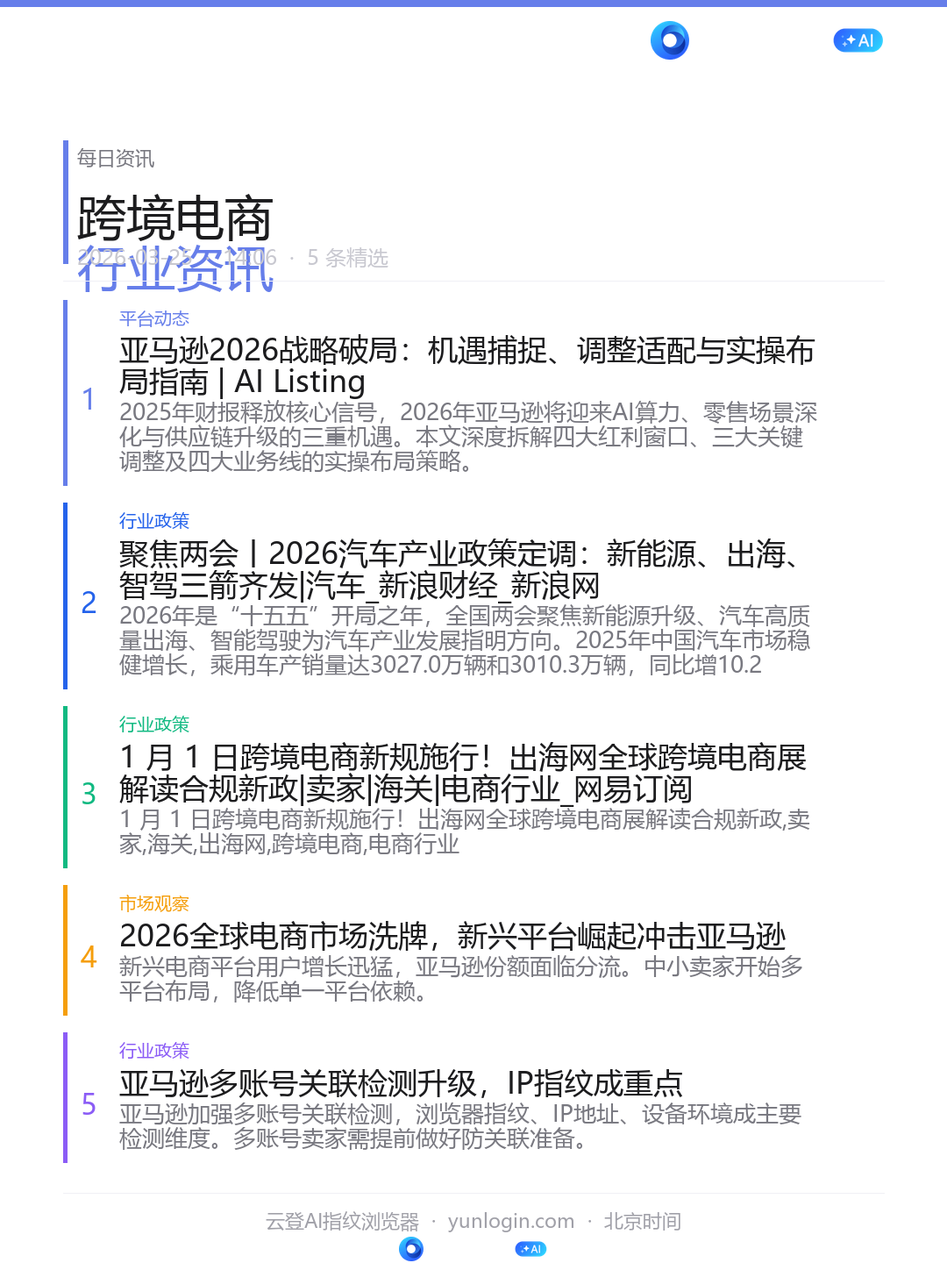
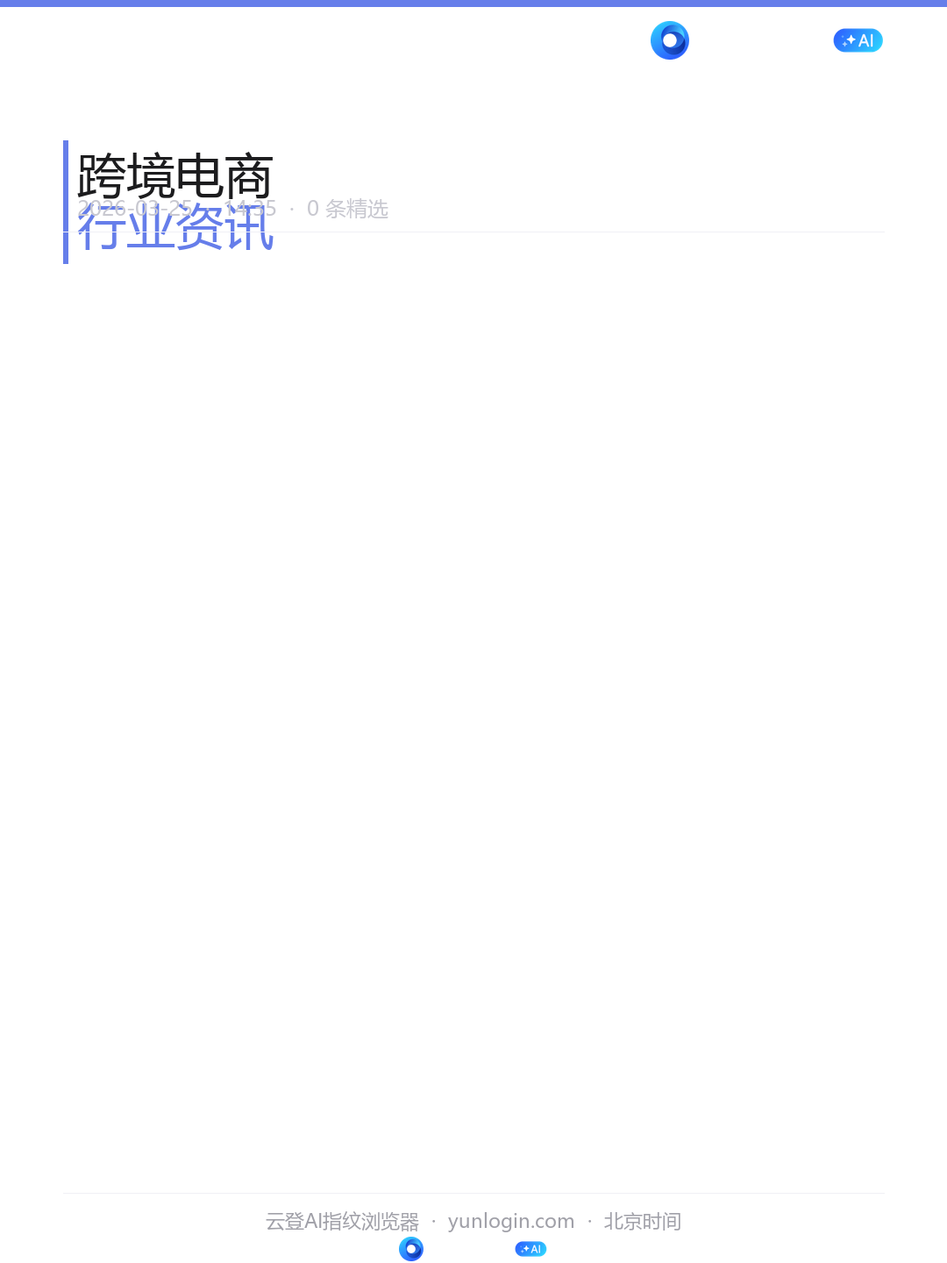
update: 行业简报 2026-03-25 14:35 - v7关键词库

diff --git a/资讯/index.html b/资讯/index.html
@@ -82,7 +82,7 @@ a{color:#667eea;text-decoration:none}
 <div class="hdr">
   <h1>📰 行业资讯</h1>
   <div>
-    <span class="t">🕒 2026-03-25 14:06 · 北京时间</span>
+    <span class="t">🕒 2026-03-25 14:35 · 北京时间</span>
     <a href="../index.html">← 返回首页</a>
   </div>
 </div>
@@ -102,16 +102,16 @@ a{color:#667eea;text-decoration:none}
     <div class="bc">
       <div class="bh">
         <div class="bt">🖼 对外简报 · 朋友圈素材 <span class="badge badge-grn">14:00</span></div>
-        <div class="bm">更新于 2026-03-25 14:06 · 无来源链接</div>
+        <div class="bm">更新于 2026-03-25 14:35 · 无来源链接</div>
       </div>
-      <ul class="nl"><li class="ni"><div class="nb">1</div><div class="nc"><div class="nm"><span class="tag tagB">平台动态</span></div><div class="nt"><a href="https://amzailisting.com/blog/amazon-2026-strategy-trends-guide" target="_blank">亚马逊2026战略破局：机遇捕捉、调整适配与实操布局指南 | AI Listing</a></div><div class="nd">2025年财报释放核心信号，2026年亚马逊将迎来AI算力、零售场景深化与供应链升级的三重机遇。本文深度拆解四大红利窗口、三大关键调整及四大业务线的实操布局策略。</div></div></li><li class="ni"><div class="nb">2</div><div class="nc"><div class="nm"><span class="tag tagR">行业政策</span></div><div class="nt"><a href="https://finance.sina.com.cn/roll/2026-03-10/doc-inhqnmhx6331511.shtml" target="_blank">聚焦两会丨2026汽车产业政策定调：新能源、出海、智驾三箭齐发|汽车_新浪财经_新浪网</a></div><div class="nd">2026年是“十五五”开局之年，全国两会聚焦新能源升级、汽车高质量出海、智能驾驶为汽车产业发展指明方向。2025年中国汽车市场稳健增长，乘用车产销量达3027.0万辆和3010.3万辆，同比增10.2%和9.2%，新能源汽车产销量同比增29%和28.2%。出口方面，乘用车出口同比增21.9%，新能源乘用车出口占比同比增103.7%。智能驾驶领域，2025年L2级及以上智能驾驶渗透率超65%。202</div></div></li><li class="ni"><div class="nb">3</div><div class="nc"><div class="nm"><span class="tag tagR">行业政策</span></div><div class="nt"><a href="https://www.163.com/dy/article/KIO8R7UK05568DP0.html" target="_blank">1 月 1 日跨境电商新规施行！出海网全球跨境电商展解读合规新政|卖家|海关|电商行业_网易订阅</a></div><div class="nd">1 月 1 日跨境电商新规施行！出海网全球跨境电商展解读合规新政,卖家,海关,出海网,跨境电商,电商行业</div></div></li></ul>
+      <ul class="nl"></ul>
     </div>
     <div class="bc">
       <div class="bh">
-        <div class="bt">📊 对内全模块 <span class="badge">5条</span></div>
-        <div class="bm">更新于 2026-03-25 14:06 · 含来源链接</div>
+        <div class="bt">📊 对内全模块 <span class="badge">0条</span></div>
+        <div class="bm">更新于 2026-03-25 14:35 · 含来源链接</div>
       </div>
-      <ul class="nl"><li class="ni"><div class="nb">1</div><div class="nc"><div class="nm"><span class="tag tagB">平台动态</span></div><div class="nt"><a href="https://amzailisting.com/blog/amazon-2026-strategy-trends-guide" target="_blank">亚马逊2026战略破局：机遇捕捉、调整适配与实操布局指南 | AI Listing</a></div><div class="nd">2025年财报释放核心信号，2026年亚马逊将迎来AI算力、零售场景深化与供应链升级的三重机遇。本文深度拆解四大红利窗口、三大关键调整及四大业务线的实操布局策略。</div><div class="ns">&#128214; <a href="https://amzailisting.com/blog/amazon-2026-strategy-trends-guide" target="_blank">amzailisting.com</a> <a class="nlk" href="https://amzailisting.com/blog/amazon-2026-strategy-trends-guide" target="_blank">&#8594;</a></div></div></li><li class="ni"><div class="nb">2</div><div class="nc"><div class="nm"><span class="tag tagR">行业政策</span></div><div class="nt"><a href="https://finance.sina.com.cn/roll/2026-03-10/doc-inhqnmhx6331511.shtml" target="_blank">聚焦两会丨2026汽车产业政策定调：新能源、出海、智驾三箭齐发|汽车_新浪财经_新浪网</a></div><div class="nd">2026年是“十五五”开局之年，全国两会聚焦新能源升级、汽车高质量出海、智能驾驶为汽车产业发展指明方向。2025年中国汽车市场稳健增长，乘用车产销量达3027.0万辆和3010.3万辆，同比增10.2%和9.2%，新能源汽车产销量同比增29%和28.2%。出口方面，乘用车出口同比增21.9%，新能源乘用车出口占比同比增103.7%。智能驾驶领域，2025年L2级及以上智能驾驶渗透率超65%。202</div><div class="ns">&#128214; <a href="https://finance.sina.com.cn/roll/2026-03-10/doc-inhqnmhx6331511.shtml" target="_blank">finance.sina.com.cn</a> <a class="nlk" href="https://finance.sina.com.cn/roll/2026-03-10/doc-inhqnmhx6331511.shtml" target="_blank">&#8594;</a></div></div></li><li class="ni"><div class="nb">3</div><div class="nc"><div class="nm"><span class="tag tagR">行业政策</span></div><div class="nt"><a href="https://www.163.com/dy/article/KIO8R7UK05568DP0.html" target="_blank">1 月 1 日跨境电商新规施行！出海网全球跨境电商展解读合规新政|卖家|海关|电商行业_网易订阅</a></div><div class="nd">1 月 1 日跨境电商新规施行！出海网全球跨境电商展解读合规新政,卖家,海关,出海网,跨境电商,电商行业</div><div class="ns">&#128214; <a href="https://www.163.com/dy/article/KIO8R7UK05568DP0.html" target="_blank">www.163.com</a> <a class="nlk" href="https://www.163.com/dy/article/KIO8R7UK05568DP0.html" target="_blank">&#8594;</a></div></div></li><li class="ni"><div class="nb">4</div><div class="nc"><div class="nm"><span class="tag tagO">市场观察</span></div><div class="nt"><a href="https://www.sohu.com/a/996154720_122656378" target="_blank">2026全球电商市场洗牌，新兴平台崛起冲击亚马逊</a></div><div class="nd">新兴电商平台用户增长迅猛，亚马逊份额面临分流。中小卖家开始多平台布局，降低单一平台依赖。</div><div class="ns">&#128214; <a href="https://www.sohu.com/a/996154720_122656378" target="_blank">搜狐财经</a> <a class="nlk" href="https://www.sohu.com/a/996154720_122656378" target="_blank">&#8594;</a></div></div></li><li class="ni"><div class="nb">5</div><div class="nc"><div class="nm"><span class="tag tagR">行业政策</span></div><div class="nt"><a href="https://www.sohu.com/a/998377667_120987862" target="_blank">亚马逊多账号关联检测升级，IP指纹成重点</a></div><div class="nd">亚马逊加强多账号关联检测，浏览器指纹、IP地址、设备环境成主要检测维度。多账号卖家需提前做好防关联准备。</div><div class="ns">&#128214; <a href="https://www.sohu.com/a/998377667_120987862" target="_blank">搜狐财经</a> <a class="nlk" href="https://www.sohu.com/a/998377667_120987862" target="_blank">&#8594;</a></div></div></li></ul>
+      <ul class="nl"></ul>
     </div>
   </div>
 
@@ -120,7 +120,7 @@ a{color:#667eea;text-decoration:none}
       <div class="bh">
         <div class="bt">🕐 今日历史版本 <span class="badge">2026-03-25</span></div>
       </div>
-      <div id="tlWrap"><table class="tl"><thead><tr><th>时间</th><th>条数</th><th>首条</th><th>标签</th><th></th></tr></thead><tbody><tr><td class="tc">14:00</td><td class="ti">8条</td><td class="ti">亚马逊2026战略破局：机遇捕捉、调整适配与实操布局指南 | AI Li...</td><td><span class="mt">平台动态</span> <span class="mt">行业政策</span> <span class="mt">行业政策</span> <span class="mt">平台动态</span></td><td><button class="bv bcur" onclick="showSnap('14')">当前</button></td></tr><tr><td class="tc">13:00</td><td class="ti">8条</td><td class="ti">盘点2025年中国跨境电商重要政策：对2026跨境出海的影响 - TMO...</td><td><span class="mt">行业政策</span> <span class="mt">行业政策</span> <span class="mt">市场观察</span> <span class="mt">行业政策</span></td><td><button class="bv " onclick="showSnap('13')">查看</button></td></tr><tr><td class="tc">12:00</td><td class="ti">8条</td><td class="ti">2026美国电商如何赢得新增长？答案就藏在这里 - ingstart-全...</td><td><span class="mt">行业政策</span> <span class="mt">市场观察</span> <span class="mt">行业政策</span> <span class="mt">行业政策</span></td><td><button class="bv " onclick="showSnap('12')">查看</button></td></tr></tbody></table></div>
+      <div id="tlWrap"><table class="tl"><thead><tr><th>时间</th><th>条数</th><th>首条</th><th>标签</th><th></th></tr></thead><tbody><tr><td class="tc">14:00</td><td class="ti">0条</td><td class="ti">无内容</td><td></td><td><button class="bv bcur" onclick="showSnap('14')">当前</button></td></tr></tbody></table></div>
     </div>
   </div>
 </div>
@@ -152,7 +152,7 @@ a{color:#667eea;text-decoration:none}
   </div>
 </div>
 
-<script type="application/json" id="sd">{"2026-03-25": {"12": {"articles": [{"tag": "行业政策", "title": "2026美国电商如何赢得新增长？答案就藏在这里 - ingstart-全球公司成立与合规", "desc": "2026美国电商如何赢得新增长？答案就藏在这里 随着TikTok Shop在美国市场持续爆发，“兴趣电商+品牌", "date": "2026-03-25", "hour": "12", "url": "https://www.ingstart.com/blog/45558.html", "source": "www.ingstart.com", "is_new": true, "for_outer": true, "score": 5}, {"tag": "市场观察", "title": "2026全球电商市场洗牌，新兴平台崛起冲击亚马逊", "desc": "新兴电商平台用户增长迅猛，亚马逊份额面临分流。中小卖家开始多平台布局，降低单一平台依赖。", "url": "https://www.sohu.com/a/996154720_122656378", "source": "搜狐财经", "for_outer": true, "is_new": false, "hour": "12", "score": 5}, {"tag": "行业政策", "title": "亚马逊多账号关联检测升级，IP指纹成重点", "desc": "亚马逊加强多账号关联检测，浏览器指纹、IP地址、设备环境成主要检测维度。多账号卖家需提前做好防关联准备。", "url": "https://www.sohu.com/a/998377667_120987862", "source": "搜狐财经", "for_outer": true, "is_new": false, "hour": "12", "score": 2}, {"tag": "行业政策", "title": "2026美国电商如何赢得新增长？答案就藏在这里 - ingstart-全球公司成立与合规", "desc": "2026美国电商如何赢得新增长？答案就藏在这里 随着TikTok Shop在美国市场持续爆发，“兴趣电商+品牌", "date": "2026-03-25", "hour": "12", "url": "https://www.ingstart.com/blog/45558.html", "source": "www.ingstart.com", "is_new": true, "for_outer": true, "score": 5}, {"tag": "运营技巧", "title": "404,您访问的页面已经不存在!", "desc": "", "date": "2026-03-25", "hour": "12", "url": "https://www.sohu.com/a/998487508_122647688", "source": "www.sohu.com", "is_new": true, "for_outer": false, "score": 0}, {"tag": "市场观察", "title": "2026全球电商市场洗牌，新兴平台崛起冲击亚马逊", "desc": "新兴电商平台用户增长迅猛，亚马逊份额面临分流。中小卖家开始多平台布局，降低单一平台依赖。", "url": "https://www.sohu.com/a/996154720_122656378", "source": "搜狐财经", "for_outer": true, "is_new": false, "hour": "12", "score": 5}, {"tag": "行业政策", "title": "亚马逊多账号关联检测升级，IP指纹成重点", "desc": "亚马逊加强多账号关联检测，浏览器指纹、IP地址、设备环境成主要检测维度。多账号卖家需提前做好防关联准备。", "url": "https://www.sohu.com/a/998377667_120987862", "source": "搜狐财经", "for_outer": true, "is_new": false, "hour": "12", "score": 2}, {"tag": "行业政策", "title": "美国、土耳其相继加征关税，跨境卖家成本压力骤增", "desc": "美国、土耳其对多国商品加征关税，出口电商面临新一轮成本压力，需提前布局多平台分散风险。", "url": "https://www.jiemian.com/article/14129901.html", "source": "界面新闻", "for_outer": true, "is_new": false, "hour": "12", "score": 2}], "updated": "2026-03-25 12:40"}, "13": {"articles": [{"tag": "行业政策", "title": "盘点2025年中国跨境电商重要政策：对2026跨境出海的影响 - TMO Group", "desc": "全面梳理 2025 年中国跨境电商重要政策，涵盖海外仓、通关便利、RCEP 协定与数据合规趋势，解读其对 2026 年跨境出海与品牌全球化布局的实际影响，助力企业制定可持续出海战略！", "date": "2026-03-25", "hour": "13", "url": "https://www.tmogroup.com.cn/insights/key-cross-border-ecommerce-policy-china/", "source": "www.tmogroup.com.cn", "is_new": true, "for_outer": true, "score": 5}, {"tag": "行业政策", "title": "2026年外贸业务跨境支付：深陷监管桎梏与合规困境-风险预警-外贸资讯-催全球", "desc": "圣彼得堡作为俄罗斯西北部最大的外贸枢纽，是最早经历国际结算体系结构性巨变的地区之一。", "date": "2026-03-25", "hour": "13", "url": "https://www.cuiqq.com/newsdetail/15781", "source": "www.cuiqq.com", "is_new": true, "for_outer": true, "score": 5}, {"tag": "市场观察", "title": "2026全球电商市场洗牌，新兴平台崛起冲击亚马逊", "desc": "新兴电商平台用户增长迅猛，亚马逊份额面临分流。中小卖家开始多平台布局，降低单一平台依赖。", "url": "https://www.sohu.com/a/996154720_122656378", "source": "搜狐财经", "for_outer": true, "is_new": false, "hour": "13", "score": 5}, {"tag": "行业政策", "title": "盘点2025年中国跨境电商重要政策：对2026跨境出海的影响 - TMO Group", "desc": "全面梳理 2025 年中国跨境电商重要政策，涵盖海外仓、通关便利、RCEP 协定与数据合规趋势，解读其对 2026 年跨境出海与品牌全球化布局的实际影响，助力企业制定可持续出海战略！", "date": "2026-03-25", "hour": "13", "url": "https://www.tmogroup.com.cn/insights/key-cross-border-ecommerce-policy-china/", "source": "www.tmogroup.com.cn", "is_new": true, "for_outer": true, "score": 5}, {"tag": "行业政策", "title": "2026年外贸业务跨境支付：深陷监管桎梏与合规困境-风险预警-外贸资讯-催全球", "desc": "圣彼得堡作为俄罗斯西北部最大的外贸枢纽，是最早经历国际结算体系结构性巨变的地区之一。", "date": "2026-03-25", "hour": "13", "url": "https://www.cuiqq.com/newsdetail/15781", "source": "www.cuiqq.com", "is_new": true, "for_outer": true, "score": 5}, {"tag": "市场观察", "title": "2026全球电商市场洗牌，新兴平台崛起冲击亚马逊", "desc": "新兴电商平台用户增长迅猛，亚马逊份额面临分流。中小卖家开始多平台布局，降低单一平台依赖。", "url": "https://www.sohu.com/a/996154720_122656378", "source": "搜狐财经", "for_outer": true, "is_new": false, "hour": "13", "score": 5}, {"tag": "行业政策", "title": "亚马逊多账号关联检测升级，IP指纹成重点", "desc": "亚马逊加强多账号关联检测，浏览器指纹、IP地址、设备环境成主要检测维度。多账号卖家需提前做好防关联准备。", "url": "https://www.sohu.com/a/998377667_120987862", "source": "搜狐财经", "for_outer": true, "is_new": false, "hour": "13", "score": 2}, {"tag": "行业政策", "title": "美国、土耳其相继加征关税，跨境卖家成本压力骤增", "desc": "美国、土耳其对多国商品加征关税，出口电商面临新一轮成本压力，需提前布局多平台分散风险。", "url": "https://www.jiemian.com/article/14129901.html", "source": "界面新闻", "for_outer": true, "is_new": false, "hour": "13", "score": 2}], "updated": "2026-03-25 13:58"}, "14": {"articles": [{"tag": "平台动态", "title": "亚马逊2026战略破局：机遇捕捉、调整适配与实操布局指南 | AI Listing", "desc": "2025年财报释放核心信号，2026年亚马逊将迎来AI算力、零售场景深化与供应链升级的三重机遇。本文深度拆解四大红利窗口、三大关键调整及四大业务线的实操布局策略。", "date": "2026-03-25", "hour": "14", "url": "https://amzailisting.com/blog/amazon-2026-strategy-trends-guide", "source": "amzailisting.com", "is_new": true, "for_outer": true, "score": 5}, {"tag": "行业政策", "title": "聚焦两会丨2026汽车产业政策定调：新能源、出海、智驾三箭齐发|汽车_新浪财经_新浪网", "desc": "2026年是“十五五”开局之年，全国两会聚焦新能源升级、汽车高质量出海、智能驾驶为汽车产业发展指明方向。2025年中国汽车市场稳健增长，乘用车产销量达3027.0万辆和3010.3万辆，同比增10.2%和9.2%，新能源汽车产销量同比增29%和28.2%。出口方面，乘用车出口同比增21.9%，新能源乘用车出口占比同比增103.7%。智能驾驶领域，2025年L2级及以上智能驾驶渗透率超65%。202", "date": "2026-03-25", "hour": "14", "url": "https://finance.sina.com.cn/roll/2026-03-10/doc-inhqnmhx6331511.shtml", "source": "finance.sina.com.cn", "is_new": true, "for_outer": true, "score": 5}, {"tag": "行业政策", "title": "1 月 1 日跨境电商新规施行！出海网全球跨境电商展解读合规新政|卖家|海关|电商行业_网易订阅", "desc": "1 月 1 日跨境电商新规施行！出海网全球跨境电商展解读合规新政,卖家,海关,出海网,跨境电商,电商行业", "date": "2026-03-25", "hour": "14", "url": "https://www.163.com/dy/article/KIO8R7UK05568DP0.html", "source": "www.163.com", "is_new": true, "for_outer": true, "score": 0}, {"tag": "平台动态", "title": "亚马逊2026战略破局：机遇捕捉、调整适配与实操布局指南 | AI Listing", "desc": "2025年财报释放核心信号，2026年亚马逊将迎来AI算力、零售场景深化与供应链升级的三重机遇。本文深度拆解四大红利窗口、三大关键调整及四大业务线的实操布局策略。", "date": "2026-03-25", "hour": "14", "url": "https://amzailisting.com/blog/amazon-2026-strategy-trends-guide", "source": "amzailisting.com", "is_new": true, "for_outer": true, "score": 5}, {"tag": "行业政策", "title": "聚焦两会丨2026汽车产业政策定调：新能源、出海、智驾三箭齐发|汽车_新浪财经_新浪网", "desc": "2026年是“十五五”开局之年，全国两会聚焦新能源升级、汽车高质量出海、智能驾驶为汽车产业发展指明方向。2025年中国汽车市场稳健增长，乘用车产销量达3027.0万辆和3010.3万辆，同比增10.2%和9.2%，新能源汽车产销量同比增29%和28.2%。出口方面，乘用车出口同比增21.9%，新能源乘用车出口占比同比增103.7%。智能驾驶领域，2025年L2级及以上智能驾驶渗透率超65%。202", "date": "2026-03-25", "hour": "14", "url": "https://finance.sina.com.cn/roll/2026-03-10/doc-inhqnmhx6331511.shtml", "source": "finance.sina.com.cn", "is_new": true, "for_outer": true, "score": 5}, {"tag": "行业政策", "title": "1 月 1 日跨境电商新规施行！出海网全球跨境电商展解读合规新政|卖家|海关|电商行业_网易订阅", "desc": "1 月 1 日跨境电商新规施行！出海网全球跨境电商展解读合规新政,卖家,海关,出海网,跨境电商,电商行业", "date": "2026-03-25", "hour": "14", "url": "https://www.163.com/dy/article/KIO8R7UK05568DP0.html", "source": "www.163.com", "is_new": true, "for_outer": true, "score": 0}, {"tag": "市场观察", "title": "2026全球电商市场洗牌，新兴平台崛起冲击亚马逊", "desc": "新兴电商平台用户增长迅猛，亚马逊份额面临分流。中小卖家开始多平台布局，降低单一平台依赖。", "url": "https://www.sohu.com/a/996154720_122656378", "source": "搜狐财经", "for_outer": true, "is_new": false, "hour": "14", "score": 5}, {"tag": "行业政策", "title": "亚马逊多账号关联检测升级，IP指纹成重点", "desc": "亚马逊加强多账号关联检测，浏览器指纹、IP地址、设备环境成主要检测维度。多账号卖家需提前做好防关联准备。", "url": "https://www.sohu.com/a/998377667_120987862", "source": "搜狐财经", "for_outer": true, "is_new": false, "hour": "14", "score": 2}], "updated": "2026-03-25 14:06"}}}</script>
+<script type="application/json" id="sd">{"2026-03-25": {"14": {"articles": [], "updated": "2026-03-25 14:35"}}}</script>
 <script>
 var SD=JSON.parse(document.getElementById("sd").textContent||"{}");
 

diff --git a/资讯/历史.html b/资讯/历史.html
@@ -85,7 +85,7 @@ a{color:#667eea;text-decoration:none}
       <div class="bt">📁 全部历史记录</div>
       <div class="bm">按日期分组，共保留7天</div>
     </div>
-    <div id="dgWrap"><div class="dg"><div class="dl">2026-03-25 周二</div><table class="tl"><thead><tr><th>时间</th><th>条数</th><th>首条</th><th>标签</th><th></th></tr></thead><tbody><tr><td class="tc">14:00</td><td class="ti">8条</td><td class="ti">亚马逊2026战略破局：机遇捕捉、调整适配与实操布局指南 | A...</td><td><span class="mt">平台动态</span> <span class="mt">行业政策</span> <span class="mt">行业政策</span> <span class="mt">平台动态</span></td><td><button class="bv" onclick="loadSnap('2026-03-25','14')">查看</button></td></tr><tr><td class="tc">13:00</td><td class="ti">8条</td><td class="ti">盘点2025年中国跨境电商重要政策：对2026跨境出海的影响 -...</td><td><span class="mt">行业政策</span> <span class="mt">行业政策</span> <span class="mt">市场观察</span> <span class="mt">行业政策</span></td><td><button class="bv" onclick="loadSnap('2026-03-25','13')">查看</button></td></tr><tr><td class="tc">12:00</td><td class="ti">8条</td><td class="ti">2026美国电商如何赢得新增长？答案就藏在这里 - ingsta...</td><td><span class="mt">行业政策</span> <span class="mt">市场观察</span> <span class="mt">行业政策</span> <span class="mt">行业政策</span></td><td><button class="bv" onclick="loadSnap('2026-03-25','12')">查看</button></td></tr></tbody></table></div></div>
+    <div id="dgWrap"><div class="dg"><div class="dl">2026-03-25 周二</div><table class="tl"><thead><tr><th>时间</th><th>条数</th><th>首条</th><th>标签</th><th></th></tr></thead><tbody><tr><td class="tc">14:00</td><td class="ti">0条</td><td class="ti">无内容</td><td></td><td><button class="bv" onclick="loadSnap('2026-03-25','14')">查看</button></td></tr></tbody></table></div></div>
   </div>
 </div>
 
@@ -116,7 +116,7 @@ a{color:#667eea;text-decoration:none}
   </div>
 </div>
 
-<script type="application/json" id="sd">{"2026-03-25": {"12": {"articles": [{"tag": "行业政策", "title": "2026美国电商如何赢得新增长？答案就藏在这里 - ingstart-全球公司成立与合规", "desc": "2026美国电商如何赢得新增长？答案就藏在这里 随着TikTok Shop在美国市场持续爆发，“兴趣电商+品牌", "date": "2026-03-25", "hour": "12", "url": "https://www.ingstart.com/blog/45558.html", "source": "www.ingstart.com", "is_new": true, "for_outer": true, "score": 5}, {"tag": "市场观察", "title": "2026全球电商市场洗牌，新兴平台崛起冲击亚马逊", "desc": "新兴电商平台用户增长迅猛，亚马逊份额面临分流。中小卖家开始多平台布局，降低单一平台依赖。", "url": "https://www.sohu.com/a/996154720_122656378", "source": "搜狐财经", "for_outer": true, "is_new": false, "hour": "12", "score": 5}, {"tag": "行业政策", "title": "亚马逊多账号关联检测升级，IP指纹成重点", "desc": "亚马逊加强多账号关联检测，浏览器指纹、IP地址、设备环境成主要检测维度。多账号卖家需提前做好防关联准备。", "url": "https://www.sohu.com/a/998377667_120987862", "source": "搜狐财经", "for_outer": true, "is_new": false, "hour": "12", "score": 2}, {"tag": "行业政策", "title": "2026美国电商如何赢得新增长？答案就藏在这里 - ingstart-全球公司成立与合规", "desc": "2026美国电商如何赢得新增长？答案就藏在这里 随着TikTok Shop在美国市场持续爆发，“兴趣电商+品牌", "date": "2026-03-25", "hour": "12", "url": "https://www.ingstart.com/blog/45558.html", "source": "www.ingstart.com", "is_new": true, "for_outer": true, "score": 5}, {"tag": "运营技巧", "title": "404,您访问的页面已经不存在!", "desc": "", "date": "2026-03-25", "hour": "12", "url": "https://www.sohu.com/a/998487508_122647688", "source": "www.sohu.com", "is_new": true, "for_outer": false, "score": 0}, {"tag": "市场观察", "title": "2026全球电商市场洗牌，新兴平台崛起冲击亚马逊", "desc": "新兴电商平台用户增长迅猛，亚马逊份额面临分流。中小卖家开始多平台布局，降低单一平台依赖。", "url": "https://www.sohu.com/a/996154720_122656378", "source": "搜狐财经", "for_outer": true, "is_new": false, "hour": "12", "score": 5}, {"tag": "行业政策", "title": "亚马逊多账号关联检测升级，IP指纹成重点", "desc": "亚马逊加强多账号关联检测，浏览器指纹、IP地址、设备环境成主要检测维度。多账号卖家需提前做好防关联准备。", "url": "https://www.sohu.com/a/998377667_120987862", "source": "搜狐财经", "for_outer": true, "is_new": false, "hour": "12", "score": 2}, {"tag": "行业政策", "title": "美国、土耳其相继加征关税，跨境卖家成本压力骤增", "desc": "美国、土耳其对多国商品加征关税，出口电商面临新一轮成本压力，需提前布局多平台分散风险。", "url": "https://www.jiemian.com/article/14129901.html", "source": "界面新闻", "for_outer": true, "is_new": false, "hour": "12", "score": 2}], "updated": "2026-03-25 12:40"}, "13": {"articles": [{"tag": "行业政策", "title": "盘点2025年中国跨境电商重要政策：对2026跨境出海的影响 - TMO Group", "desc": "全面梳理 2025 年中国跨境电商重要政策，涵盖海外仓、通关便利、RCEP 协定与数据合规趋势，解读其对 2026 年跨境出海与品牌全球化布局的实际影响，助力企业制定可持续出海战略！", "date": "2026-03-25", "hour": "13", "url": "https://www.tmogroup.com.cn/insights/key-cross-border-ecommerce-policy-china/", "source": "www.tmogroup.com.cn", "is_new": true, "for_outer": true, "score": 5}, {"tag": "行业政策", "title": "2026年外贸业务跨境支付：深陷监管桎梏与合规困境-风险预警-外贸资讯-催全球", "desc": "圣彼得堡作为俄罗斯西北部最大的外贸枢纽，是最早经历国际结算体系结构性巨变的地区之一。", "date": "2026-03-25", "hour": "13", "url": "https://www.cuiqq.com/newsdetail/15781", "source": "www.cuiqq.com", "is_new": true, "for_outer": true, "score": 5}, {"tag": "市场观察", "title": "2026全球电商市场洗牌，新兴平台崛起冲击亚马逊", "desc": "新兴电商平台用户增长迅猛，亚马逊份额面临分流。中小卖家开始多平台布局，降低单一平台依赖。", "url": "https://www.sohu.com/a/996154720_122656378", "source": "搜狐财经", "for_outer": true, "is_new": false, "hour": "13", "score": 5}, {"tag": "行业政策", "title": "盘点2025年中国跨境电商重要政策：对2026跨境出海的影响 - TMO Group", "desc": "全面梳理 2025 年中国跨境电商重要政策，涵盖海外仓、通关便利、RCEP 协定与数据合规趋势，解读其对 2026 年跨境出海与品牌全球化布局的实际影响，助力企业制定可持续出海战略！", "date": "2026-03-25", "hour": "13", "url": "https://www.tmogroup.com.cn/insights/key-cross-border-ecommerce-policy-china/", "source": "www.tmogroup.com.cn", "is_new": true, "for_outer": true, "score": 5}, {"tag": "行业政策", "title": "2026年外贸业务跨境支付：深陷监管桎梏与合规困境-风险预警-外贸资讯-催全球", "desc": "圣彼得堡作为俄罗斯西北部最大的外贸枢纽，是最早经历国际结算体系结构性巨变的地区之一。", "date": "2026-03-25", "hour": "13", "url": "https://www.cuiqq.com/newsdetail/15781", "source": "www.cuiqq.com", "is_new": true, "for_outer": true, "score": 5}, {"tag": "市场观察", "title": "2026全球电商市场洗牌，新兴平台崛起冲击亚马逊", "desc": "新兴电商平台用户增长迅猛，亚马逊份额面临分流。中小卖家开始多平台布局，降低单一平台依赖。", "url": "https://www.sohu.com/a/996154720_122656378", "source": "搜狐财经", "for_outer": true, "is_new": false, "hour": "13", "score": 5}, {"tag": "行业政策", "title": "亚马逊多账号关联检测升级，IP指纹成重点", "desc": "亚马逊加强多账号关联检测，浏览器指纹、IP地址、设备环境成主要检测维度。多账号卖家需提前做好防关联准备。", "url": "https://www.sohu.com/a/998377667_120987862", "source": "搜狐财经", "for_outer": true, "is_new": false, "hour": "13", "score": 2}, {"tag": "行业政策", "title": "美国、土耳其相继加征关税，跨境卖家成本压力骤增", "desc": "美国、土耳其对多国商品加征关税，出口电商面临新一轮成本压力，需提前布局多平台分散风险。", "url": "https://www.jiemian.com/article/14129901.html", "source": "界面新闻", "for_outer": true, "is_new": false, "hour": "13", "score": 2}], "updated": "2026-03-25 13:58"}, "14": {"articles": [{"tag": "平台动态", "title": "亚马逊2026战略破局：机遇捕捉、调整适配与实操布局指南 | AI Listing", "desc": "2025年财报释放核心信号，2026年亚马逊将迎来AI算力、零售场景深化与供应链升级的三重机遇。本文深度拆解四大红利窗口、三大关键调整及四大业务线的实操布局策略。", "date": "2026-03-25", "hour": "14", "url": "https://amzailisting.com/blog/amazon-2026-strategy-trends-guide", "source": "amzailisting.com", "is_new": true, "for_outer": true, "score": 5}, {"tag": "行业政策", "title": "聚焦两会丨2026汽车产业政策定调：新能源、出海、智驾三箭齐发|汽车_新浪财经_新浪网", "desc": "2026年是“十五五”开局之年，全国两会聚焦新能源升级、汽车高质量出海、智能驾驶为汽车产业发展指明方向。2025年中国汽车市场稳健增长，乘用车产销量达3027.0万辆和3010.3万辆，同比增10.2%和9.2%，新能源汽车产销量同比增29%和28.2%。出口方面，乘用车出口同比增21.9%，新能源乘用车出口占比同比增103.7%。智能驾驶领域，2025年L2级及以上智能驾驶渗透率超65%。202", "date": "2026-03-25", "hour": "14", "url": "https://finance.sina.com.cn/roll/2026-03-10/doc-inhqnmhx6331511.shtml", "source": "finance.sina.com.cn", "is_new": true, "for_outer": true, "score": 5}, {"tag": "行业政策", "title": "1 月 1 日跨境电商新规施行！出海网全球跨境电商展解读合规新政|卖家|海关|电商行业_网易订阅", "desc": "1 月 1 日跨境电商新规施行！出海网全球跨境电商展解读合规新政,卖家,海关,出海网,跨境电商,电商行业", "date": "2026-03-25", "hour": "14", "url": "https://www.163.com/dy/article/KIO8R7UK05568DP0.html", "source": "www.163.com", "is_new": true, "for_outer": true, "score": 0}, {"tag": "平台动态", "title": "亚马逊2026战略破局：机遇捕捉、调整适配与实操布局指南 | AI Listing", "desc": "2025年财报释放核心信号，2026年亚马逊将迎来AI算力、零售场景深化与供应链升级的三重机遇。本文深度拆解四大红利窗口、三大关键调整及四大业务线的实操布局策略。", "date": "2026-03-25", "hour": "14", "url": "https://amzailisting.com/blog/amazon-2026-strategy-trends-guide", "source": "amzailisting.com", "is_new": true, "for_outer": true, "score": 5}, {"tag": "行业政策", "title": "聚焦两会丨2026汽车产业政策定调：新能源、出海、智驾三箭齐发|汽车_新浪财经_新浪网", "desc": "2026年是“十五五”开局之年，全国两会聚焦新能源升级、汽车高质量出海、智能驾驶为汽车产业发展指明方向。2025年中国汽车市场稳健增长，乘用车产销量达3027.0万辆和3010.3万辆，同比增10.2%和9.2%，新能源汽车产销量同比增29%和28.2%。出口方面，乘用车出口同比增21.9%，新能源乘用车出口占比同比增103.7%。智能驾驶领域，2025年L2级及以上智能驾驶渗透率超65%。202", "date": "2026-03-25", "hour": "14", "url": "https://finance.sina.com.cn/roll/2026-03-10/doc-inhqnmhx6331511.shtml", "source": "finance.sina.com.cn", "is_new": true, "for_outer": true, "score": 5}, {"tag": "行业政策", "title": "1 月 1 日跨境电商新规施行！出海网全球跨境电商展解读合规新政|卖家|海关|电商行业_网易订阅", "desc": "1 月 1 日跨境电商新规施行！出海网全球跨境电商展解读合规新政,卖家,海关,出海网,跨境电商,电商行业", "date": "2026-03-25", "hour": "14", "url": "https://www.163.com/dy/article/KIO8R7UK05568DP0.html", "source": "www.163.com", "is_new": true, "for_outer": true, "score": 0}, {"tag": "市场观察", "title": "2026全球电商市场洗牌，新兴平台崛起冲击亚马逊", "desc": "新兴电商平台用户增长迅猛，亚马逊份额面临分流。中小卖家开始多平台布局，降低单一平台依赖。", "url": "https://www.sohu.com/a/996154720_122656378", "source": "搜狐财经", "for_outer": true, "is_new": false, "hour": "14", "score": 5}, {"tag": "行业政策", "title": "亚马逊多账号关联检测升级，IP指纹成重点", "desc": "亚马逊加强多账号关联检测，浏览器指纹、IP地址、设备环境成主要检测维度。多账号卖家需提前做好防关联准备。", "url": "https://www.sohu.com/a/998377667_120987862", "source": "搜狐财经", "for_outer": true, "is_new": false, "hour": "14", "score": 2}], "updated": "2026-03-25 14:06"}}}</script>
+<script type="application/json" id="sd">{"2026-03-25": {"14": {"articles": [], "updated": "2026-03-25 14:35"}}}</script>
 <script>
 var SD=JSON.parse(document.getElementById("sd").textContent||"{}");
 
